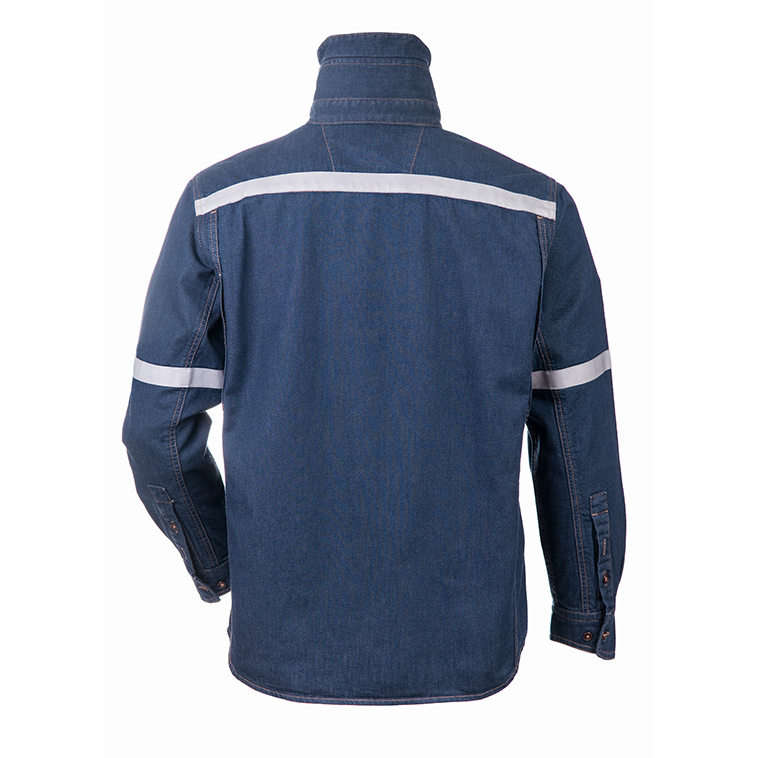
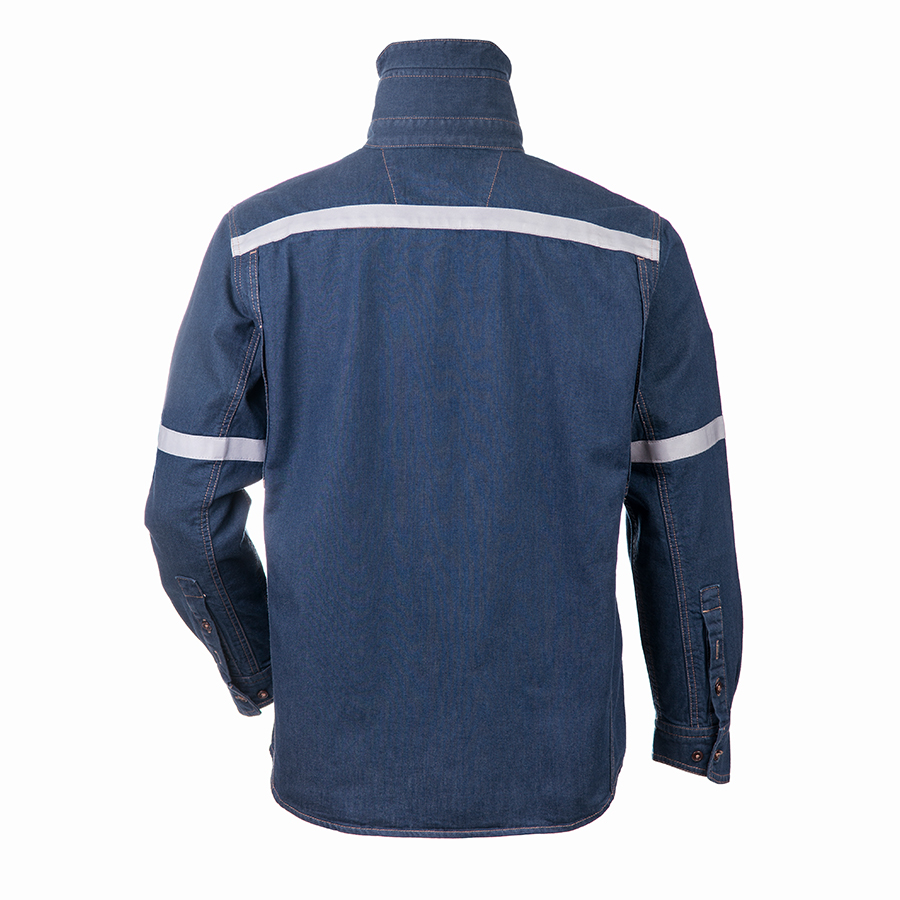
cambios alas

diff --git a/camisa-de-trabajo.html b/camisa-de-trabajo.html
@@ -157,14 +157,14 @@
                                         <!-- Wrapper for slides -->
                                         <div class="carousel-inner" role="listbox">
                                             <div class="item active">
-                                                <img src="https://unsplash.it/450/450?image=538" class="zoom img-responsive hidden-xs" data-magnify-src="https://unsplash.it/758/758?image=538" />
-                                                <img src="https://unsplash.it/450/450?image=538" class="zoom img-responsive visible-xs" />
+                                                <img src="img/demos/construction/gallery/camisa71.jpg" class="zoom img-responsive hidden-xs" data-magnify-src="img/demos/construction/gallery/camisa71.jpg" />
+                                                <img src="img/demos/construction/gallery/camisa71.jpg" class="zoom img-responsive visible-xs" />
                                                 <div class="carousel-caption">
                                                 </div>
                                             </div>
                                             <div class="item">
-                                                <img src="https://unsplash.it/450/450?image=529" class="zoom img-responsive hidden-xs" data-magnify-src="https://unsplash.it/758/758?image=529" />
-                                                <img src="https://unsplash.it/450/450?image=529" class="zoom img-responsive visible-xs" />
+                                                <img src="img/demos/construction/gallery/camisa72.jpg" class="zoom img-responsive hidden-xs" data-magnify-src="img/demos/construction/gallery/camisa72.jpg" />
+                                                <img src="img/demos/construction/gallery/camisa72.jpg" class="zoom img-responsive visible-xs" />
                                                 <div class="carousel-caption">
                                                 </div>
                                             </div>
